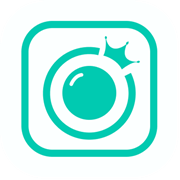
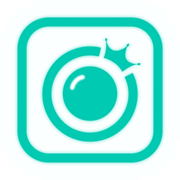
fix: 로고 이미지 변경

Changed region(s): [[0.0833, 0.0833, 0.9167, 0.9167]]

diff --git a/vite.config.js b/vite.config.js
@@ -38,8 +38,14 @@ export default defineConfig({
             type: 'image/png',
           },
           {
-            src: '/favicon.png',
+            src: '/pwa-512x512.png',
             sizes: '512x512',
+            type: 'image/png',
+            purpose: 'any',
+          },
+          {
+            src: '/favicon.png',
+            sizes: '48x48',
             type: 'image/png',
           },
         ],
